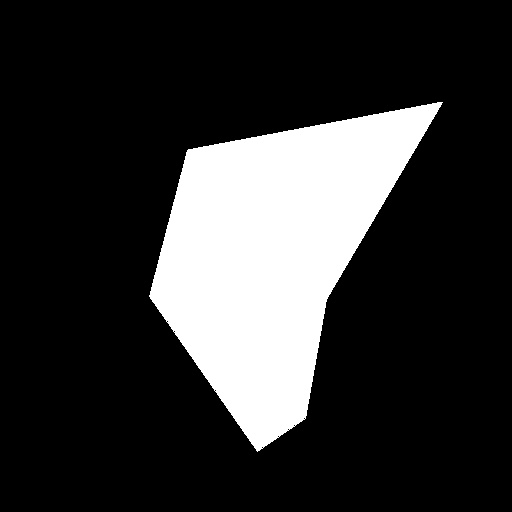
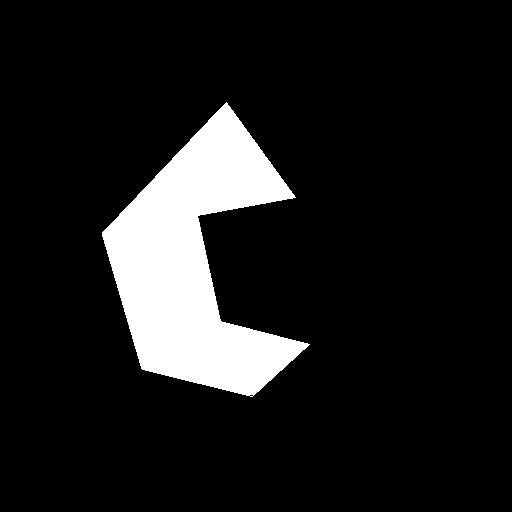
fixed lab05

Changed region(s): [[0.1875, 0.1875, 0.875, 0.875]]

diff --git a/lab05/lab05.py b/lab05/lab05.py
@@ -30,7 +30,7 @@ def draw_line(x1,y1,x2,y2,color):
 
         error, t = el/2, 0        
 
-        image[x][y] = color
+        image[y][x] = color
 
         while t < el:
             error -= es
@@ -42,7 +42,28 @@ def draw_line(x1,y1,x2,y2,color):
                 x += pdx
                 y += pdy
             t += 1
-            image[x][y] = color
+            image[y][x] = color
+
+def line_intersection(line1, line2):
+    if line1[0][1] == line2[0][1]:
+        return line2[0][0], line1[0][1]
+    if line2[0][1] == line2[1][1]:
+        return line2[1][0], line1[0][1]
+    xdiff = (line1[0][0] - line1[1][0], line2[0][0] - line2[1][0])
+    ydiff = (line1[0][1] - line1[1][1], line2[0][1] - line2[1][1])
+
+    def det(a, b):
+        return a[0] * b[1] - a[1] * b[0]
+
+    div = det(xdiff, ydiff)
+    if div == 0:
+       raise Exception('lines do not intersect')
+
+    d = (det(*line1), det(*line2))
+    x = det(d, xdiff) / div
+    y = det(d, ydiff) / div
+    return x, y
+
 
 
 def polygon(color):
@@ -55,43 +76,42 @@ def polygon(color):
                 vertices[0][0], vertices[0][1], color)
 
 def fill_polygon(color):
-    global image, vertices, _from, _to, isDrawn
+    global image, vertices, isDrawn
+    print("vertices:",vertices)
     maxy = vertices[0][1]
     miny = vertices[0][1]
+    edges = []
+    for i in range(0, len(vertices)):
+        edges.append([vertices[i -1], vertices[i]])
+    
     for point in vertices:
         if point[1] > maxy:
             maxy = point[1]
         if point[1] < miny:
             miny = point[1]
-    yarr = [[0.0]]
-    for i in range (1, maxy):
-        yarr.append([])
-    for i in range(0, len(vertices)):
-        next = 0
-        if i != len(vertices) - 1:
-            next = i + 1
-        up, down = 0, 0
-        if vertices[i][1] > vertices[next][1]:
-            up = i
-            down = next
-        elif vertices[i][1] < vertices[next][1]:
-            up = next
-            down = i
-        else: continue
+    
+    for y in range(miny+1, maxy-1):
+        xarr = []
+        for edge in edges:
+            vertA = edge[0]
+            vertB = edge[1]
+            if y < vertA[1] and y >= vertB[1] or y >= vertA[1] and y < vertB[1]:
+                x,tmp = line_intersection([[0,y],[512,y]],edge)
+                xarr.append(x)
+        intersectionsAmount = len(xarr)
+        print(xarr, y)
+        if intersectionsAmount%2 == 1:
+            print("mod = 1",xarr)
+            intersectionsAmount = intersectionsAmount - 1
+        for i in range(1, intersectionsAmount, 2):
+            odd = int(xarr[i-1])
+            even = int(xarr[i])
+            draw_line(odd,y,even,y,color)
+            for x in range(even,odd):
+                if y == miny + 20:
+                    print("x =", x)
 
-        k = (vertices[up][1] - vertices[down][1]) / (vertices[up][0] - vertices[down][0])
-        for j in range(int(vertices[down][1]), int(vertices[up][1])):
-            yarr[j].append((j - vertices[down][1])/k + vertices[down][0])
-        for y in range(int(miny), int(maxy)):
-            xarr = yarr[y]
-            xarr.sort()
-            for j in range(0,int(len(xarr)/2)):
-                x = xarr[j*2]
-                while x < xarr[j*2 + 1]:
-                    image[math.floor(x)][y] = color
-                    x+=1
-
-def click_and_draw(event,y,x,flags,param):
+def click_and_draw(event,x,y,flags,param):
     global image, vertices,_from,_to, isDrawn
     if event == cv.EVENT_LBUTTONDOWN:
         if not isDrawn:
@@ -105,6 +125,7 @@ def click_and_draw(event,y,x,flags,param):
             cv.imshow("lab05", image)
     elif event == cv.EVENT_MBUTTONDOWN:
         if len(vertices) != 0:
+            vertices.append([x,y])
             isDrawn = True
             image = np.zeros((512,512,3), np.uint8)
             polygon(255)
